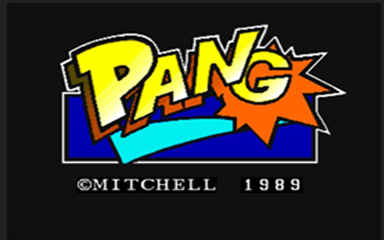
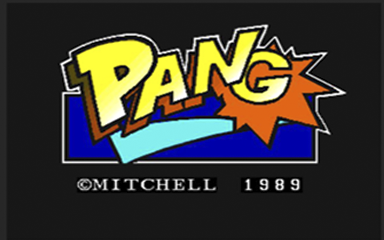
Arreglant sRGB problem amb Title
i treient els "iostream"

Changed region(s): [[0.25, 0.1167, 0.8438, 0.7], [0.1875, 0.1458, 0.4062, 0.4083]]

diff --git a/Pang/ModulePlayer.cpp b/Pang/ModulePlayer.cpp
@@ -3,7 +3,7 @@
 #include "ModulePlayer.h"
 #include "ModuleGun.h"
 
-#include <iostream>
+
 // Reference at https://www.youtube.com/watch?v=OEhmUuehGOA
 
 ModulePlayer::ModulePlayer(Application* app, bool start_enabled) : Module(app, start_enabled)

diff --git a/Pang/p2Point.h b/Pang/p2Point.h
@@ -1,3 +1,5 @@
+#include <math.h>
+
 // ----------------------------------------------------
 // Point class    -----------
 // ----------------------------------------------------

diff --git a/Pang/ModuleScenePlay.cpp b/Pang/ModuleScenePlay.cpp
@@ -1,7 +1,6 @@
 #include "Globals.h"
 #include "Application.h"
 #include "ModuleScenePlay.h"
-#include <iostream>
 
 // Reference at https://www.youtube.com/watch?v=OEhmUuehGOA
 

diff --git a/Pang/ModuleGun.cpp b/Pang/ModuleGun.cpp
@@ -6,8 +6,6 @@
 #include "ModuleBalls.h"
 
 
-#include <iostream>
-
 ModuleGun::ModuleGun(Application* app, bool start_enabled) :Module(app, start_enabled)
 {
 

diff --git a/Pang/ModuleMaps.cpp b/Pang/ModuleMaps.cpp
@@ -4,7 +4,6 @@
 #include "ModuleMaps.h"
 
 
-#include <iostream>
 
 ModuleMaps::ModuleMaps(Application* app, bool start_enabled) : Module(app, start_enabled)
 {

diff --git a/Pang/ModuleBalls.cpp b/Pang/ModuleBalls.cpp
@@ -3,7 +3,6 @@
 #include "Application.h"
 #include "ModuleBalls.h"
 
-#include <iostream>
 
 #define GRAVITY 0.2
 
